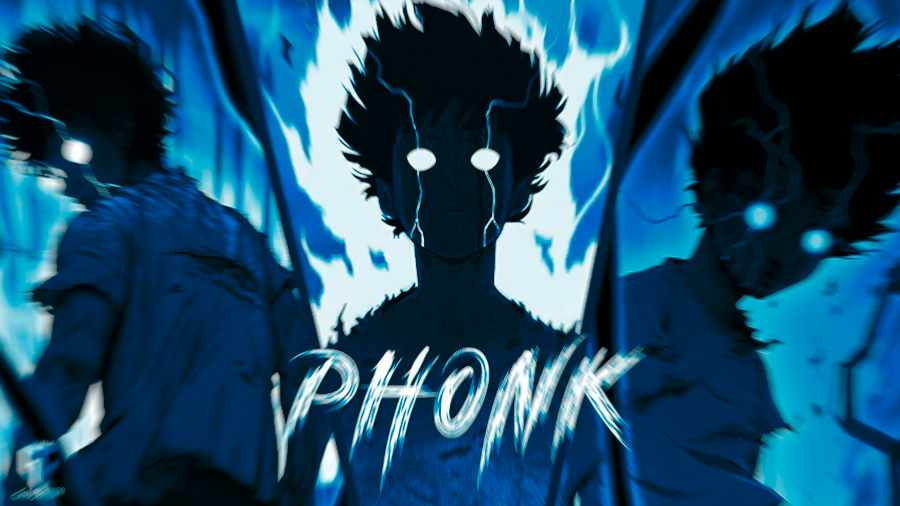
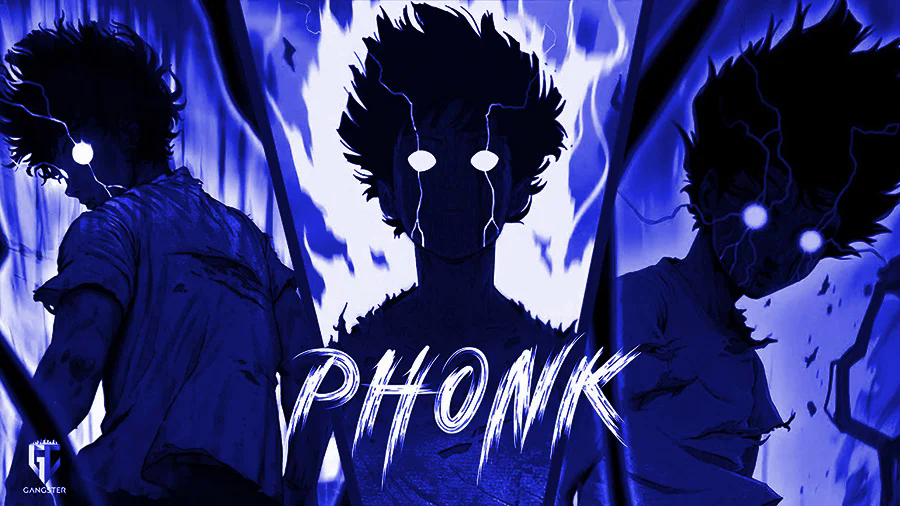
restore old bgs

diff --git a/src/playlist.rs b/src/playlist.rs
@@ -103,7 +103,7 @@ pub fn create() {
     }
 
     println!("Audios: {:?}", audios);
-    fs::write("output/desc", format!("{}\n#sigma #phonk\n", desc)).unwrap();
+    fs::write("out/desc", format!("{}\n#sigma #phonk\n", desc)).unwrap();
 
     let mut ffmpeg_cmd: String = String::from("ffmpeg");
     for audio in &audios {
@@ -111,7 +111,7 @@ pub fn create() {
     }
 
     println!("Concat audios...");
-    ffmpeg_cmd.push_str(format!(" -filter_complex \"[0:a][1:a]concat=n={}:v=0:a=1\" output/audio.mp3", audios.len()).as_str());
+    ffmpeg_cmd.push_str(format!(" -filter_complex \"[0:a][1:a]concat=n={}:v=0:a=1\" out/audio.mp3", audios.len()).as_str());
     Command::new("sh").args(["-c", ffmpeg_cmd.as_str()]).output().unwrap();
 
     let bg: String = if ptype == PlaylistType::Sad {
@@ -122,7 +122,7 @@ pub fn create() {
 
     println!("Overlay image (res/compilation/backgrounds/{}.png)...", bg);
     ffmpeg_cmd = format!(
-        "ffmpeg -loop 1 -i res/compilation/backgrounds/{}.png -i output/audio.mp3 -c:v libx264 -tune stillimage -c:a aac -b:a 192k -pix_fmt yuv420p -shortest output/0.mp4",
+        "ffmpeg -loop 1 -i res/compilation/backgrounds/{}.png -i out/audio.mp3 -c:v libx264 -tune stillimage -c:a aac -b:a 192k -pix_fmt yuv420p -shortest out/0.mp4",
         bg
     );
     Command::new("sh").args(["-c", ffmpeg_cmd.as_str()]).output().unwrap();

diff --git a/src/main.rs b/src/main.rs
@@ -12,13 +12,13 @@ use std::process::exit;
 fn main() {
     let args: Vec<String> = std::env::args().skip(1).collect();
 
-    if fs::remove_dir_all("output").is_err() {
-        eprintln!("Unable to remove contents of output/. Does the directory exist?");
+    if fs::remove_dir_all("out").is_err() {
+        eprintln!("Unable to remove contents of out/. Does the directory exist?");
         exit(1);
     }
 
-    if fs::create_dir("output").is_err() {
-        eprintln!("Unable to create output directory.");
+    if fs::create_dir("out").is_err() {
+        eprintln!("Unable to create out directory.");
         exit(1);
     }
 
@@ -39,7 +39,7 @@ fn main() {
     } else {
         for i in 0..n {
             println!("Producing video {}/{}...", i + 1, n);
-            let filename: String = format!("output/{}.mp4", i);
+            let filename: String = format!("out/{}.mp4", i);
             short::produce(filename.as_str());
         }
     }

diff --git a/README.md b/README.md
@@ -5,7 +5,7 @@ Requires [ffmpeg](https://ffmpeg.org) to combine audio and video together.
 
 # Usage
 ```
-mkdir output
+mkdir out
 cargo r [playlist|number of output shorts]
 ```
 
